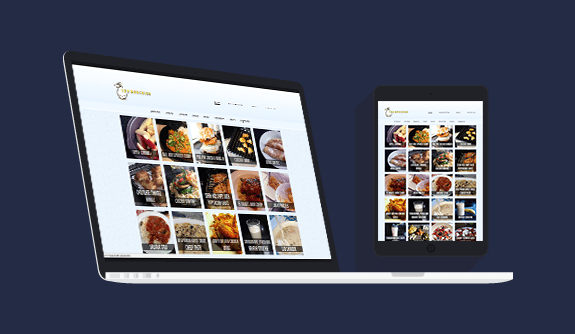
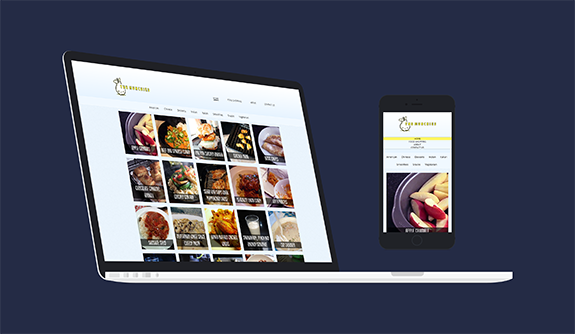
add individual items to work pages

Changed region(s): [[0.0887, 0.1497, 0.9165, 0.8683], [0.6504, 0.2395, 0.8574, 0.7784]]

diff --git a/work/websites.php b/work/websites.php
@@ -35,8 +35,30 @@
         <div class="contentblock work">
 
           <figure>
+            <a href="http://06167055.webdevmmu.uk/LPS/" title="LPS working prototype">
+                <img src="/assets/img/work/websites/websites_LPS.png" alt="Laptop and iPhone vectors displaying websites on the screens." height="334" width="575">
+            </a>
+          </figure>
+
+        </div>
+
+          <aside class="sidebar work">
+
+          <h3>Liverpool, Pembroke & Sefton Athletics</h3>
+            <p>Liverpool, Pembroke and Sefton Harriers and Athletics Club is based at Edge Hill University in the North West of England. Their official website whilst fully functional was lacking any sort of responsiveness, ensuring a poor user experience for all mobile users. I identified this as an opportunity for which to base my final year university project on, and, working with the website editor as my client gave the website a contemporary and responsive overhaul.</p>
+            <p><a href="http://06167055.webdevmmu.uk/LPS/" title="LPS working prototype">View live site</a></p>
+          <h4>Tools</h4>
+            <p><small>HTML5, CSS, PHP, JavaScript</small></p>
+
+          </aside>
+      </div>
+
+      <div class="wrapper work">
+        <div class="contentblock work">
+
+          <figure>
             <a href="http://06167055.webdevmmu.uk/DPM/index.html" title="The Munchies homepage">
-                <img src="/assets/img/work/websites/websites_munchies.png" alt="Laptop and iPad vectors displaying websites on the screens." height="334" width="575">
+                <img src="/assets/img/work/websites/websites_munchies.png" alt="Laptop and iPhone vectors displaying websites on the screens." height="334" width="575">
             </a>
           </figure>
 
@@ -44,35 +66,15 @@
 
         <aside class="sidebar work">
 
-          <h3>Overview</h3>
-            <p>For the Digital Project Management unit in the second year of BSc Web Development I took on the web developer role for my team. I was tasked with creating a fully responsive and accessible website to showcase cheap and easy student recipes.<p>In the first year I made a very simple portfolio website. Click the images to have a look.</p>
+          <h3>The Munchies</h3>
+            <p>For the Digital Project Management unit in the second year of BSc Web Development I took on the web developer role for my team. I was tasked with creating a fully responsive and accessible website to showcase cheap and easy student recipes.</p>
+            <p><a href="http://06167055.webdevmmu.uk/DPM/index.html" title="The Munchies homepage">View live site</a></p>
           <h4>Tools</h4>
             <p><small>HTML5, CSS, JavaScript</small></p>
 
         </aside>
       </div>
 
-    <div class="wrapper work">
-      <div class="contentblock work">
-
-        <figure>
-          <a href="http://06167055.webdevmmu.uk/DPM/index.html" title="The Munchies homepage">
-              <img src="/assets/img/work/websites/websites_munchies.png" alt="Laptop and iPad vectors displaying websites on the screens." height="334" width="575">
-          </a>
-        </figure>
-
-      </div>
-
-        <aside class="sidebar work">
-
-        <h3>Overview</h3>
-          <p>For the Digital Project Management unit in the second year of BSc Web Development I took on the web developer role for my team. I was tasked with creating a fully responsive and accessible website to showcase cheap and easy student recipes.<p>In the first year I made a very simple portfolio website. Click the images to have a look.</p>
-        <h4>Tools</h4>
-          <p><small>HTML5, CSS, JavaScript</small></p>
-
-        </aside>
-      </div>
-      
   </main>
 
 <?php include '../assets/includes/footer.php';?>

diff --git a/work/illustration.php b/work/illustration.php
@@ -45,7 +45,7 @@
 
         <aside class="sidebar work">
 
-          <h3>Overview</h3>
+          <h3>Personas</h3>
             <p>Most web projects necessitate the creation of user personas to keep in mind the needs of certain types of user during the development phase. I made these last year. I think I can still get some use out of them yet.</p>
           <h4>Tools</h4>
             <p><small>Adobe Illustrator</small></p>

diff --git a/work/logos.php b/work/logos.php
@@ -44,7 +44,7 @@
 
         <aside class="sidebar work">
 
-          <h3>Overview</h3>
+          <h3>Logos</h3>
             <p>I sometimes take part in logo design contests when I have nothing better to do. None of these are winners but it's the taking part that counts...</p>
             <p><small>*These logos do not in any way represent any of the brands depicted.</small></p>
           <h4>Tools</h4>

diff --git a/work/other.php b/work/other.php
@@ -50,7 +50,7 @@
 
         <aside class="sidebar work">
 
-          <h3>Overview</h3>
+          <h3>Poster Design</h3>
             <p>Here are some posters I made for the Creative Digital Media Production unit of BSc Web Development. And probably various other stuff that doesn't fit elsewhere.</p>
           <h4>Tools</h4>
             <p><small>Adobe Photoshop</small></p>

diff --git a/work/photography.php b/work/photography.php
@@ -85,7 +85,7 @@
 
         <aside class="sidebar work">
 
-          <h3>Overview</h3>
+          <h3>Photography</h3>
             <p>I bought my first DSLR recently. Here are some of the better shots I've taken whilst out and about. </p>
           <h4>Tools</h4>
             <p><small>Canon EOS 1200D 18.0 MP DSLR Camera, Samsung Galaxy S5 Camera</small></p>
